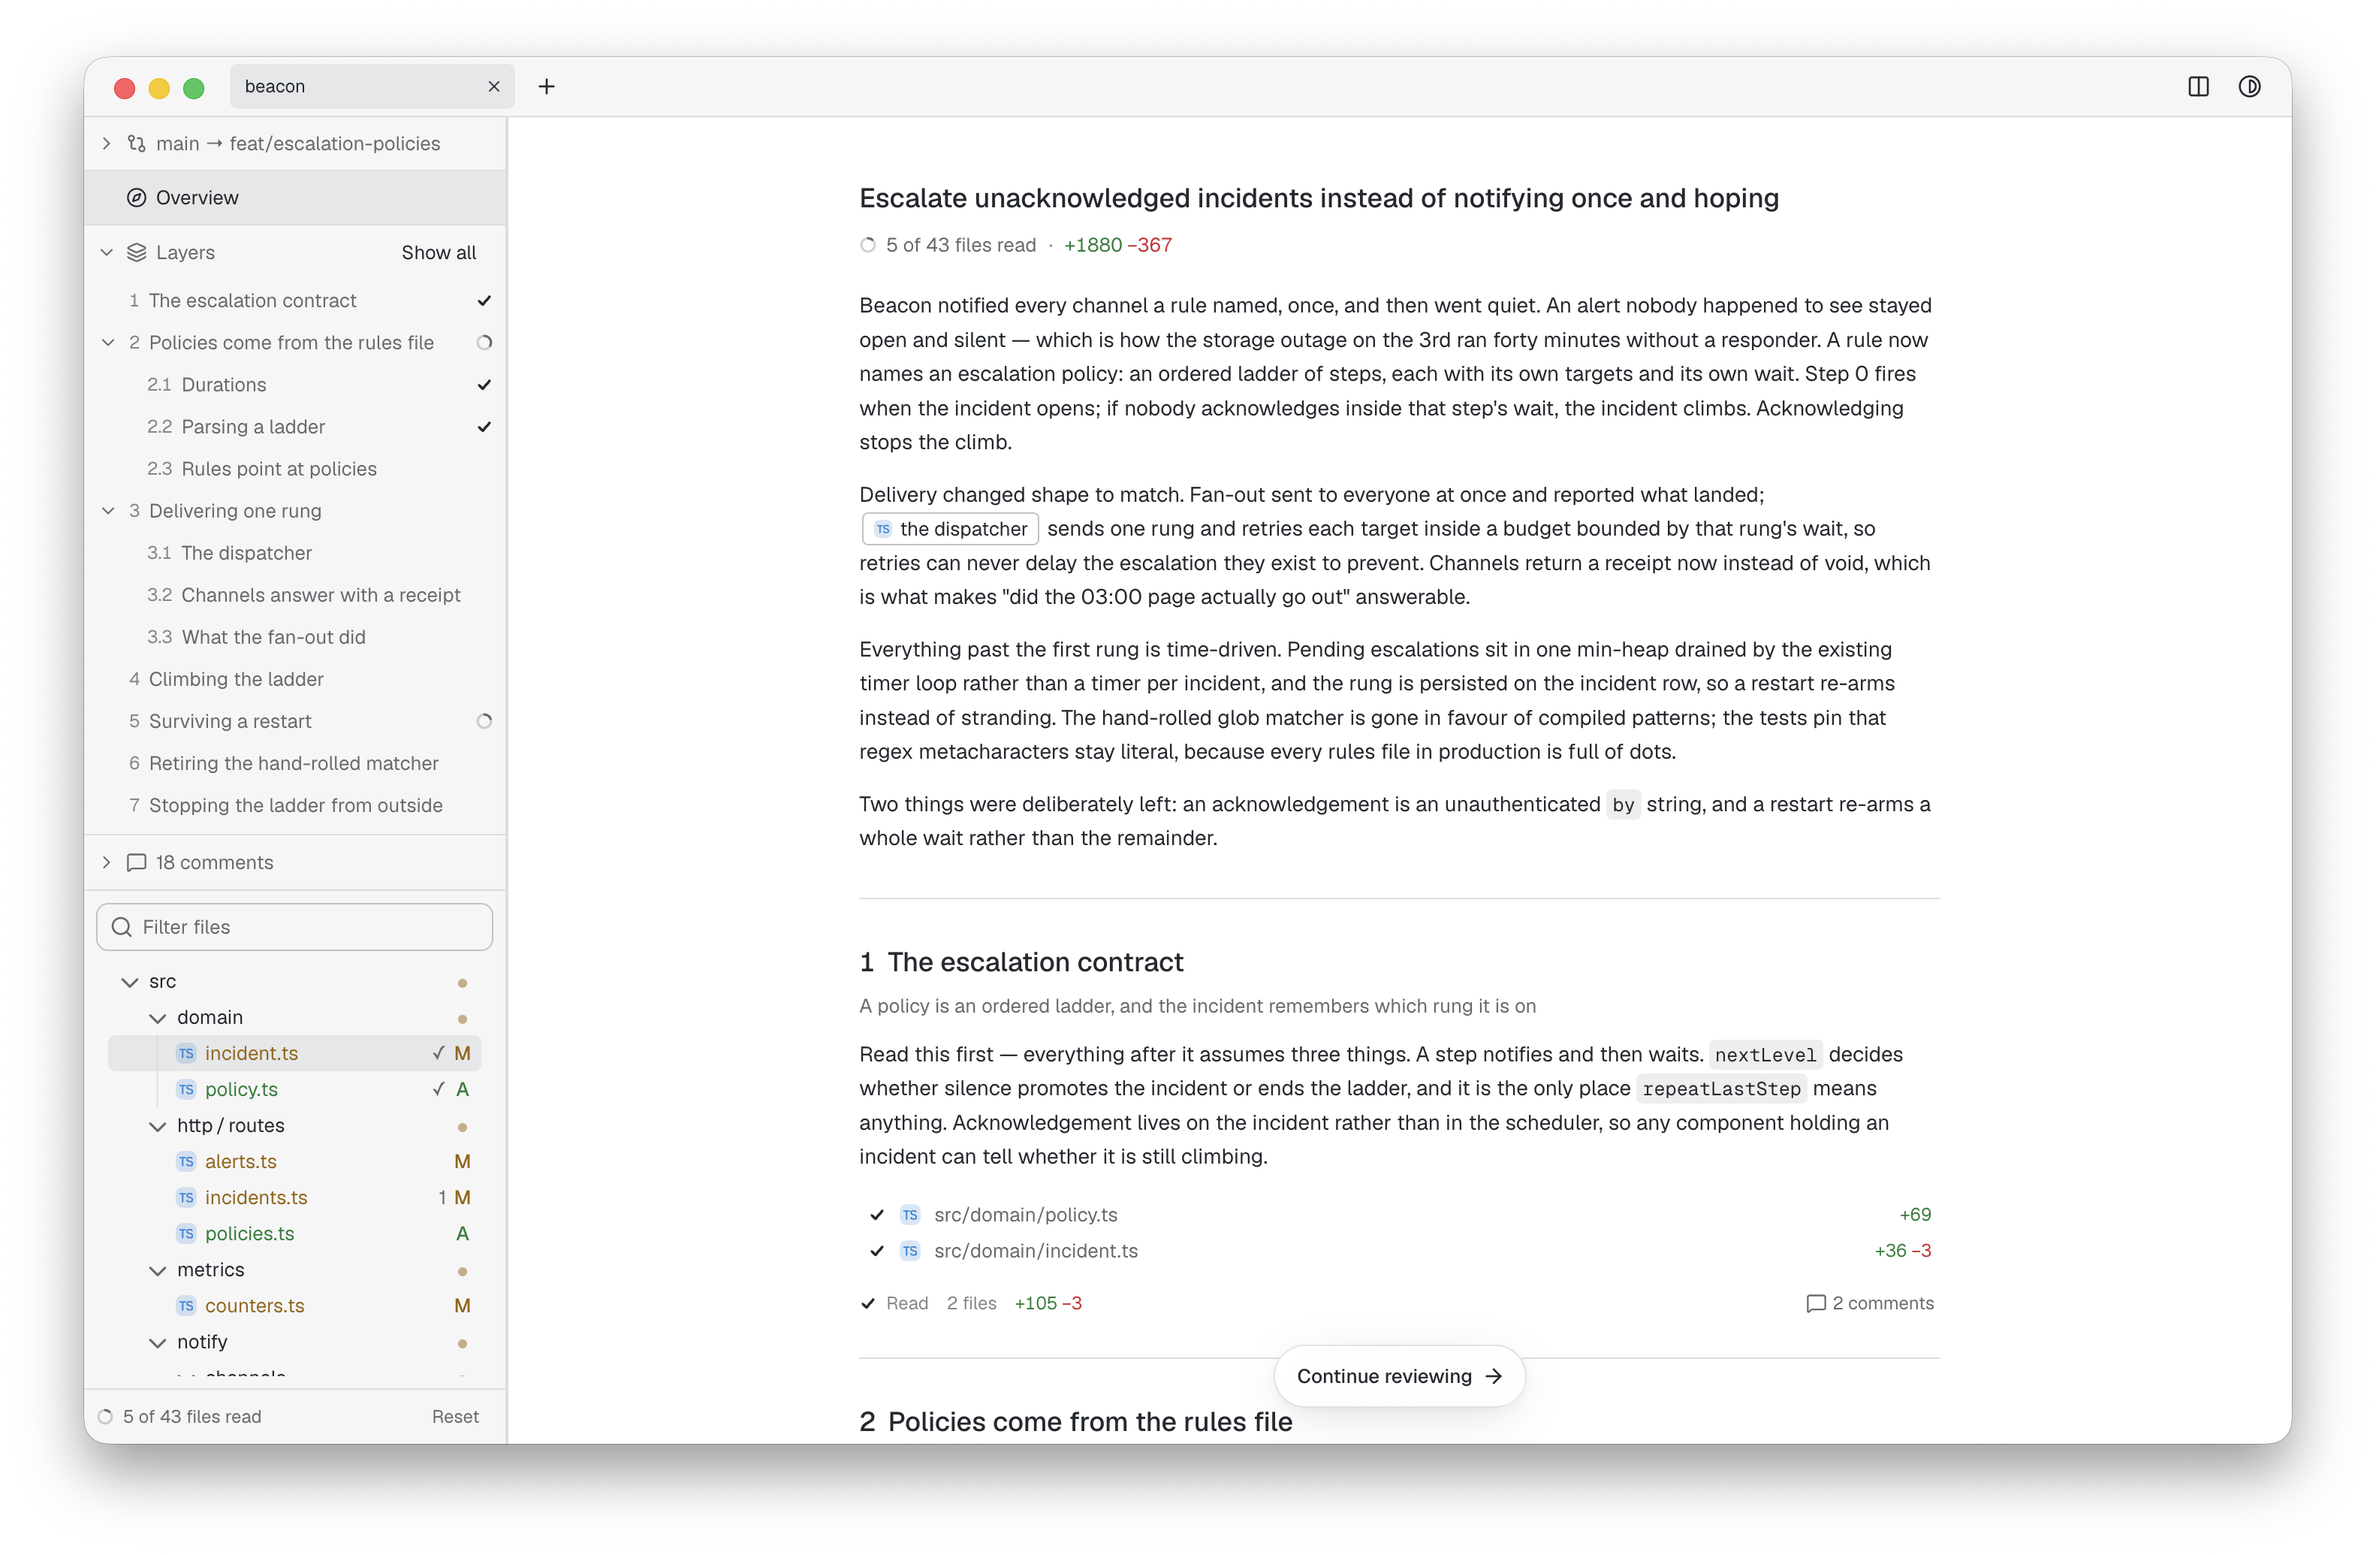
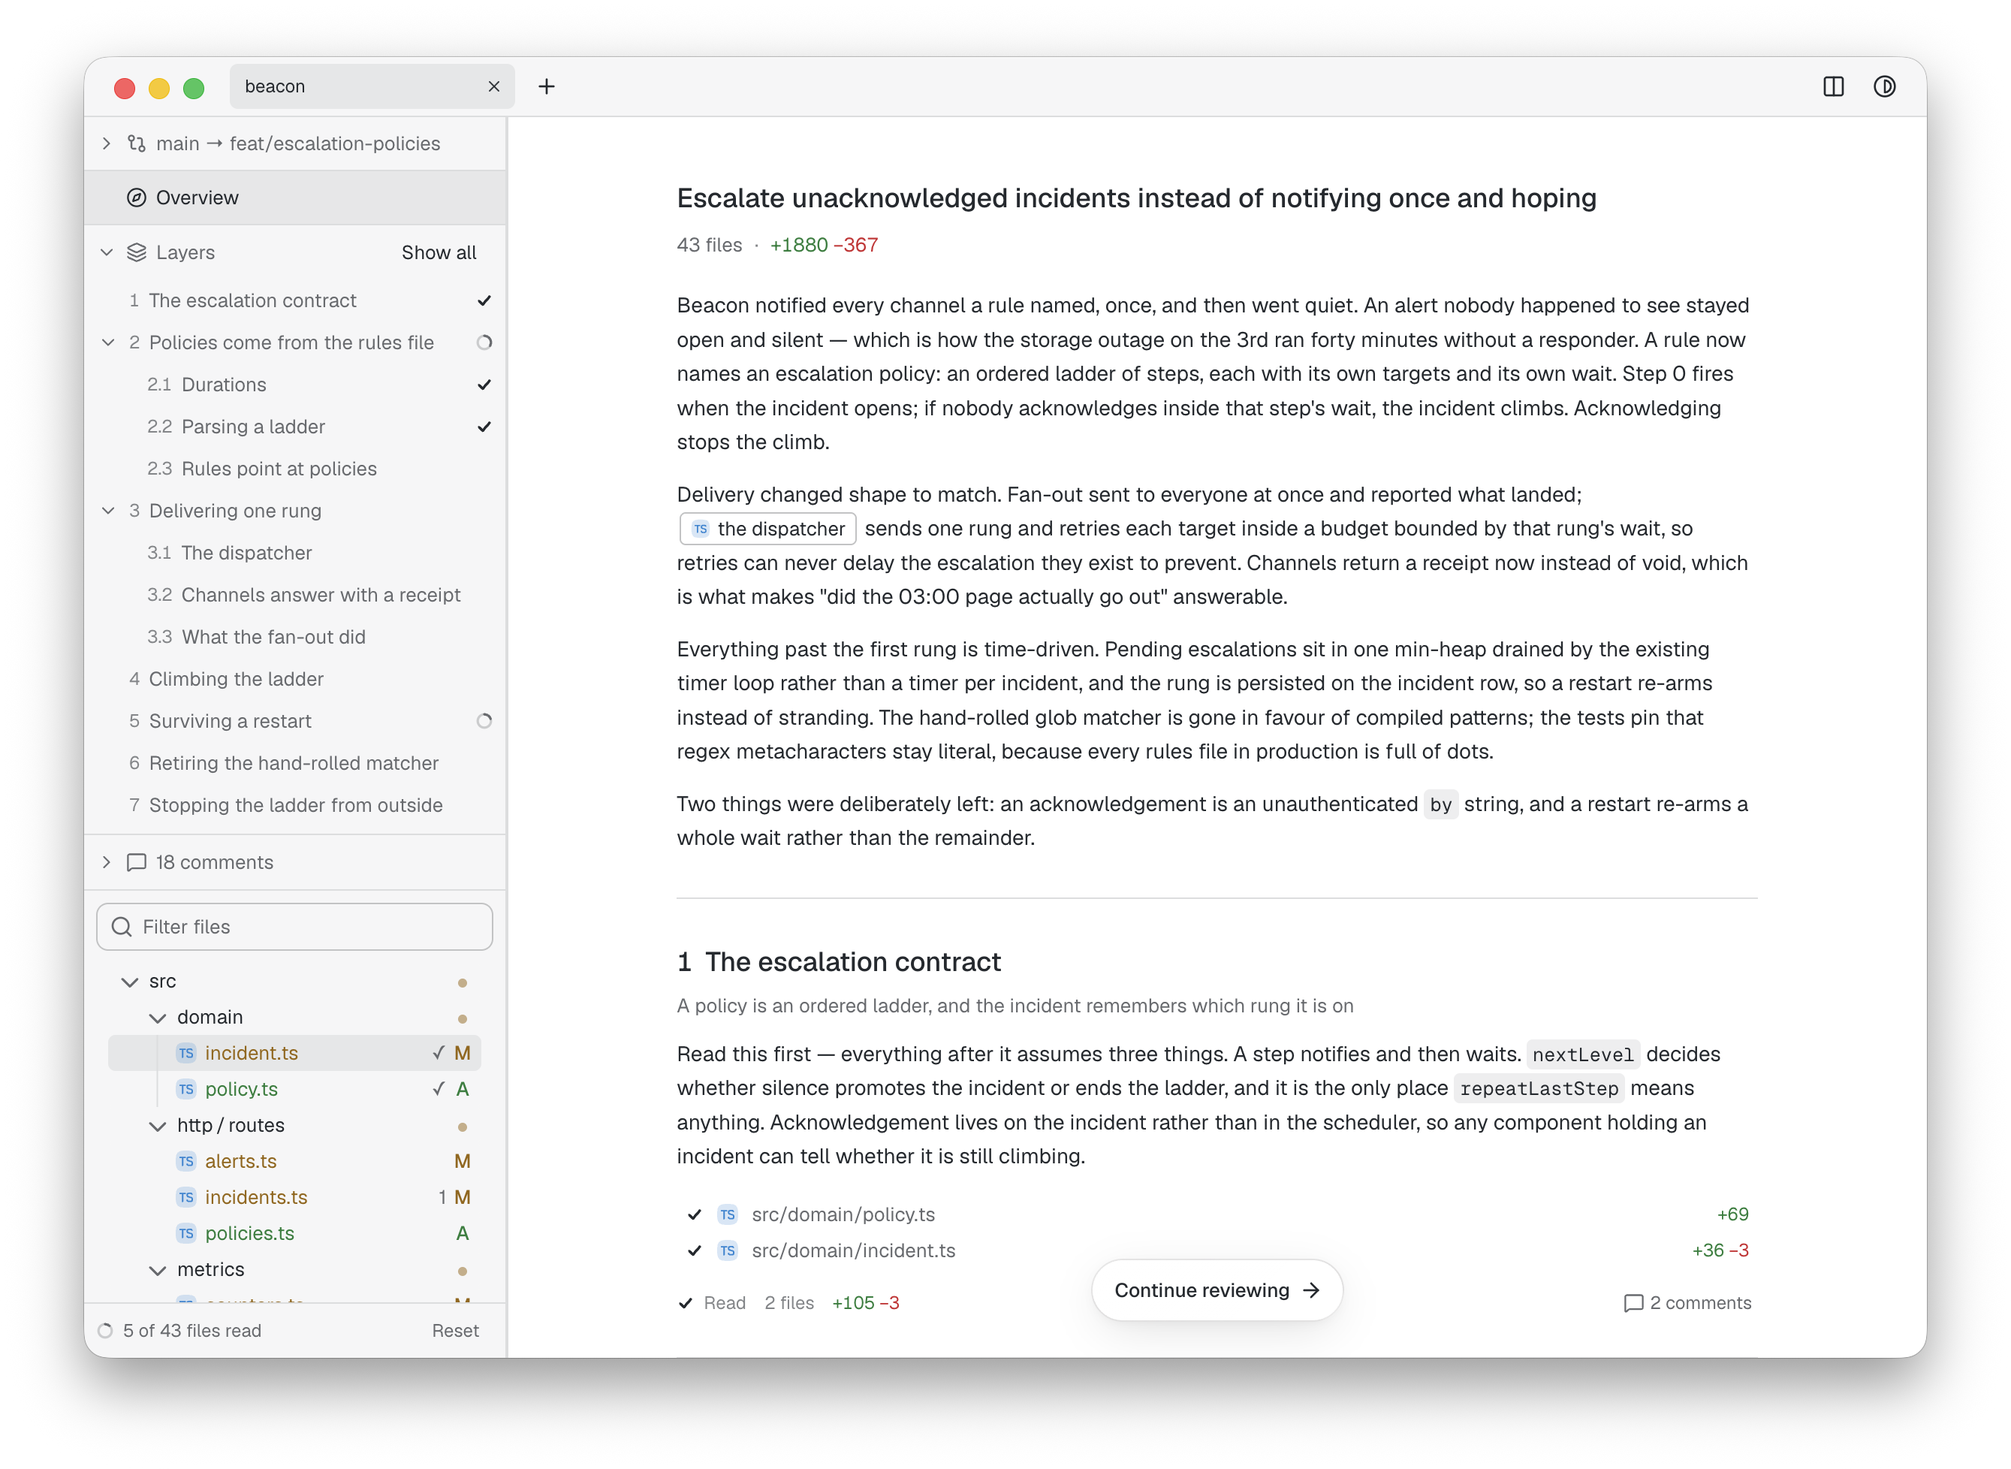
ui polish

diff --git a/src/renderer/src/components/OverviewScreen.tsx b/src/renderer/src/components/OverviewScreen.tsx
@@ -5,7 +5,7 @@ import { buildOverview } from "@/lib/overview";
 import { NO_READ_FILES } from "@/lib/read-progress";
 import { Button } from "@/components/ui/button";
 import { GLASS_PRIMARY } from "@/components/Glass";
-import { ReadRing, readLabel } from "@/components/ReadRing";
+import { ReadRing } from "@/components/ReadRing";
 import { OverviewLayerSection, layerSectionDomId } from "@/components/OverviewLayerSection";
 import { ReviewProse } from "@/components/ReviewProse";
 import { cn } from "@/lib/utils";
@@ -102,31 +102,20 @@ export function OverviewScreen(): ReactElement | null {
   const firstLayerId = layers[0]?.id ?? null;
   const resumeLayerId = model.resumeLayerId;
 
-  // The file count and the reader's progress are one item, not two, because they were only
-  // ever one number: `model.files` and `model.read.total` are both the length of the same
-  // array, so "11 files · 3 of 11 files read" printed eleven twice and made the row look
-  // like it held more facts than it did.
+  // Just the file count, never the read tally. The rail's foot carries "3 of 11 files read"
+  // permanently, one pane away and always on screen; growing this slot into the same
+  // sentence mid-review meant the number was on the page twice and the headline changed
+  // shape under the reader as they worked. What this row is for is describing the change —
+  // how much of it they have been through is the sidebar's standing job.
   //
-  // Untouched it is the plain total — an unread review's headline should describe the
-  // change, not open with a zero. The moment anything is read the same slot grows the
-  // numerator and the ring, so the count the reader already knew turns into their place in
-  // it rather than being joined by a second number reciting it back.
-  //
-  // Layer coverage is deliberately not here. It is a figure about how well the review was
-  // *authored*, and this headline is read by someone about to do the reading — a percentage
-  // they cannot act on and did not ask for. The rail states it where it belongs, next to
-  // the layers themselves, and the "Not covered" chapter says the same thing in a form the
-  // reader can actually open.
+  // Layer coverage is deliberately not here either. It is a figure about how well the review
+  // was *authored*, and this headline is read by someone about to do the reading — a
+  // percentage they cannot act on and did not ask for. The rail states it where it belongs,
+  // next to the layers themselves, and the "Not covered" chapter says the same thing in a
+  // form the reader can actually open.
   const stats: ReactElement[] = loaded
     ? [
-        model.read.read > 0 ? (
-          <span key="files" className="flex items-center gap-1.5">
-            <ReadRing tally={model.read} />
-            {readLabel(model.read)}
-          </span>
-        ) : (
-          <span key="files">{countLabel(model.files, "file")}</span>
-        ),
+        <span key="files">{countLabel(model.files, "file")}</span>,
         <span key="lines">
           <span className="text-diff-add-fg">+{model.additions}</span>{" "}
           <span className="text-diff-del-fg">−{model.deletions}</span>

diff --git a/src/renderer/src/components/FileTreePanel.tsx b/src/renderer/src/components/FileTreePanel.tsx
@@ -267,8 +267,11 @@ function ChangedFileTree({
     lastScrolledPath.current = selectedFilePath;
   }, [model, selectedFilePath]);
 
+  // Top inset only: the tree needs air under the filter box, but the bottom of the listing
+  // is already closed by the status line's own top border — padding there just strands the
+  // last row above a rule and makes the panel look like it stopped short of its section.
   return (
-    <div className="min-h-0 flex-1 py-2">
+    <div className="min-h-0 flex-1 pt-2">
       <FileTree model={model} className="h-full" />
     </div>
   );
